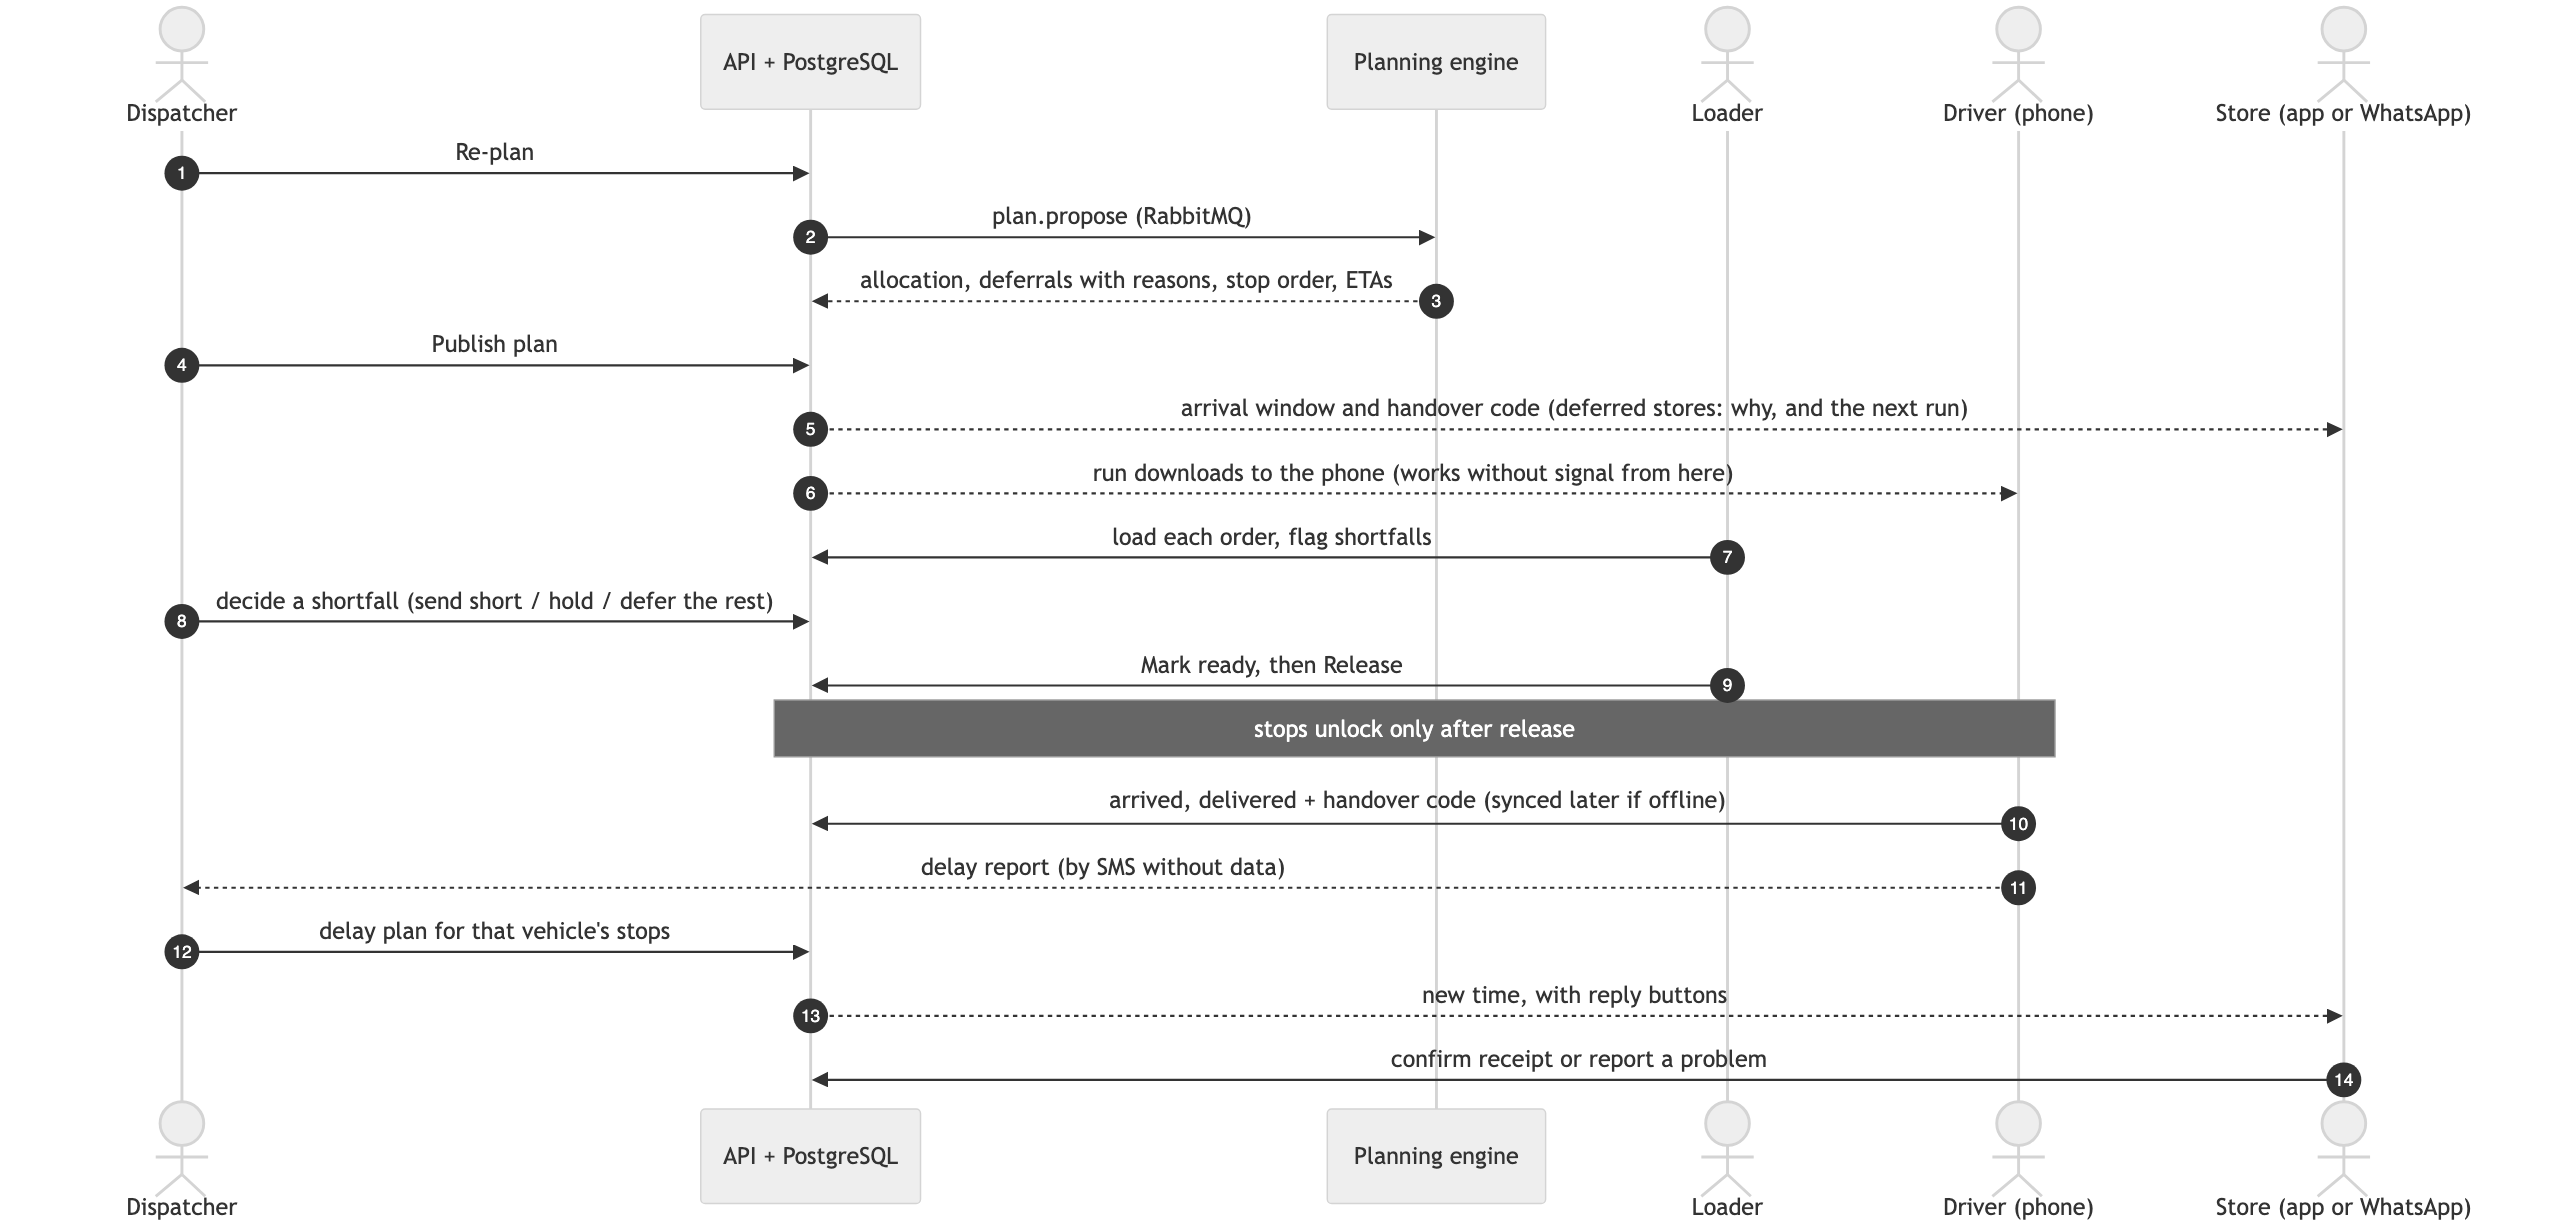
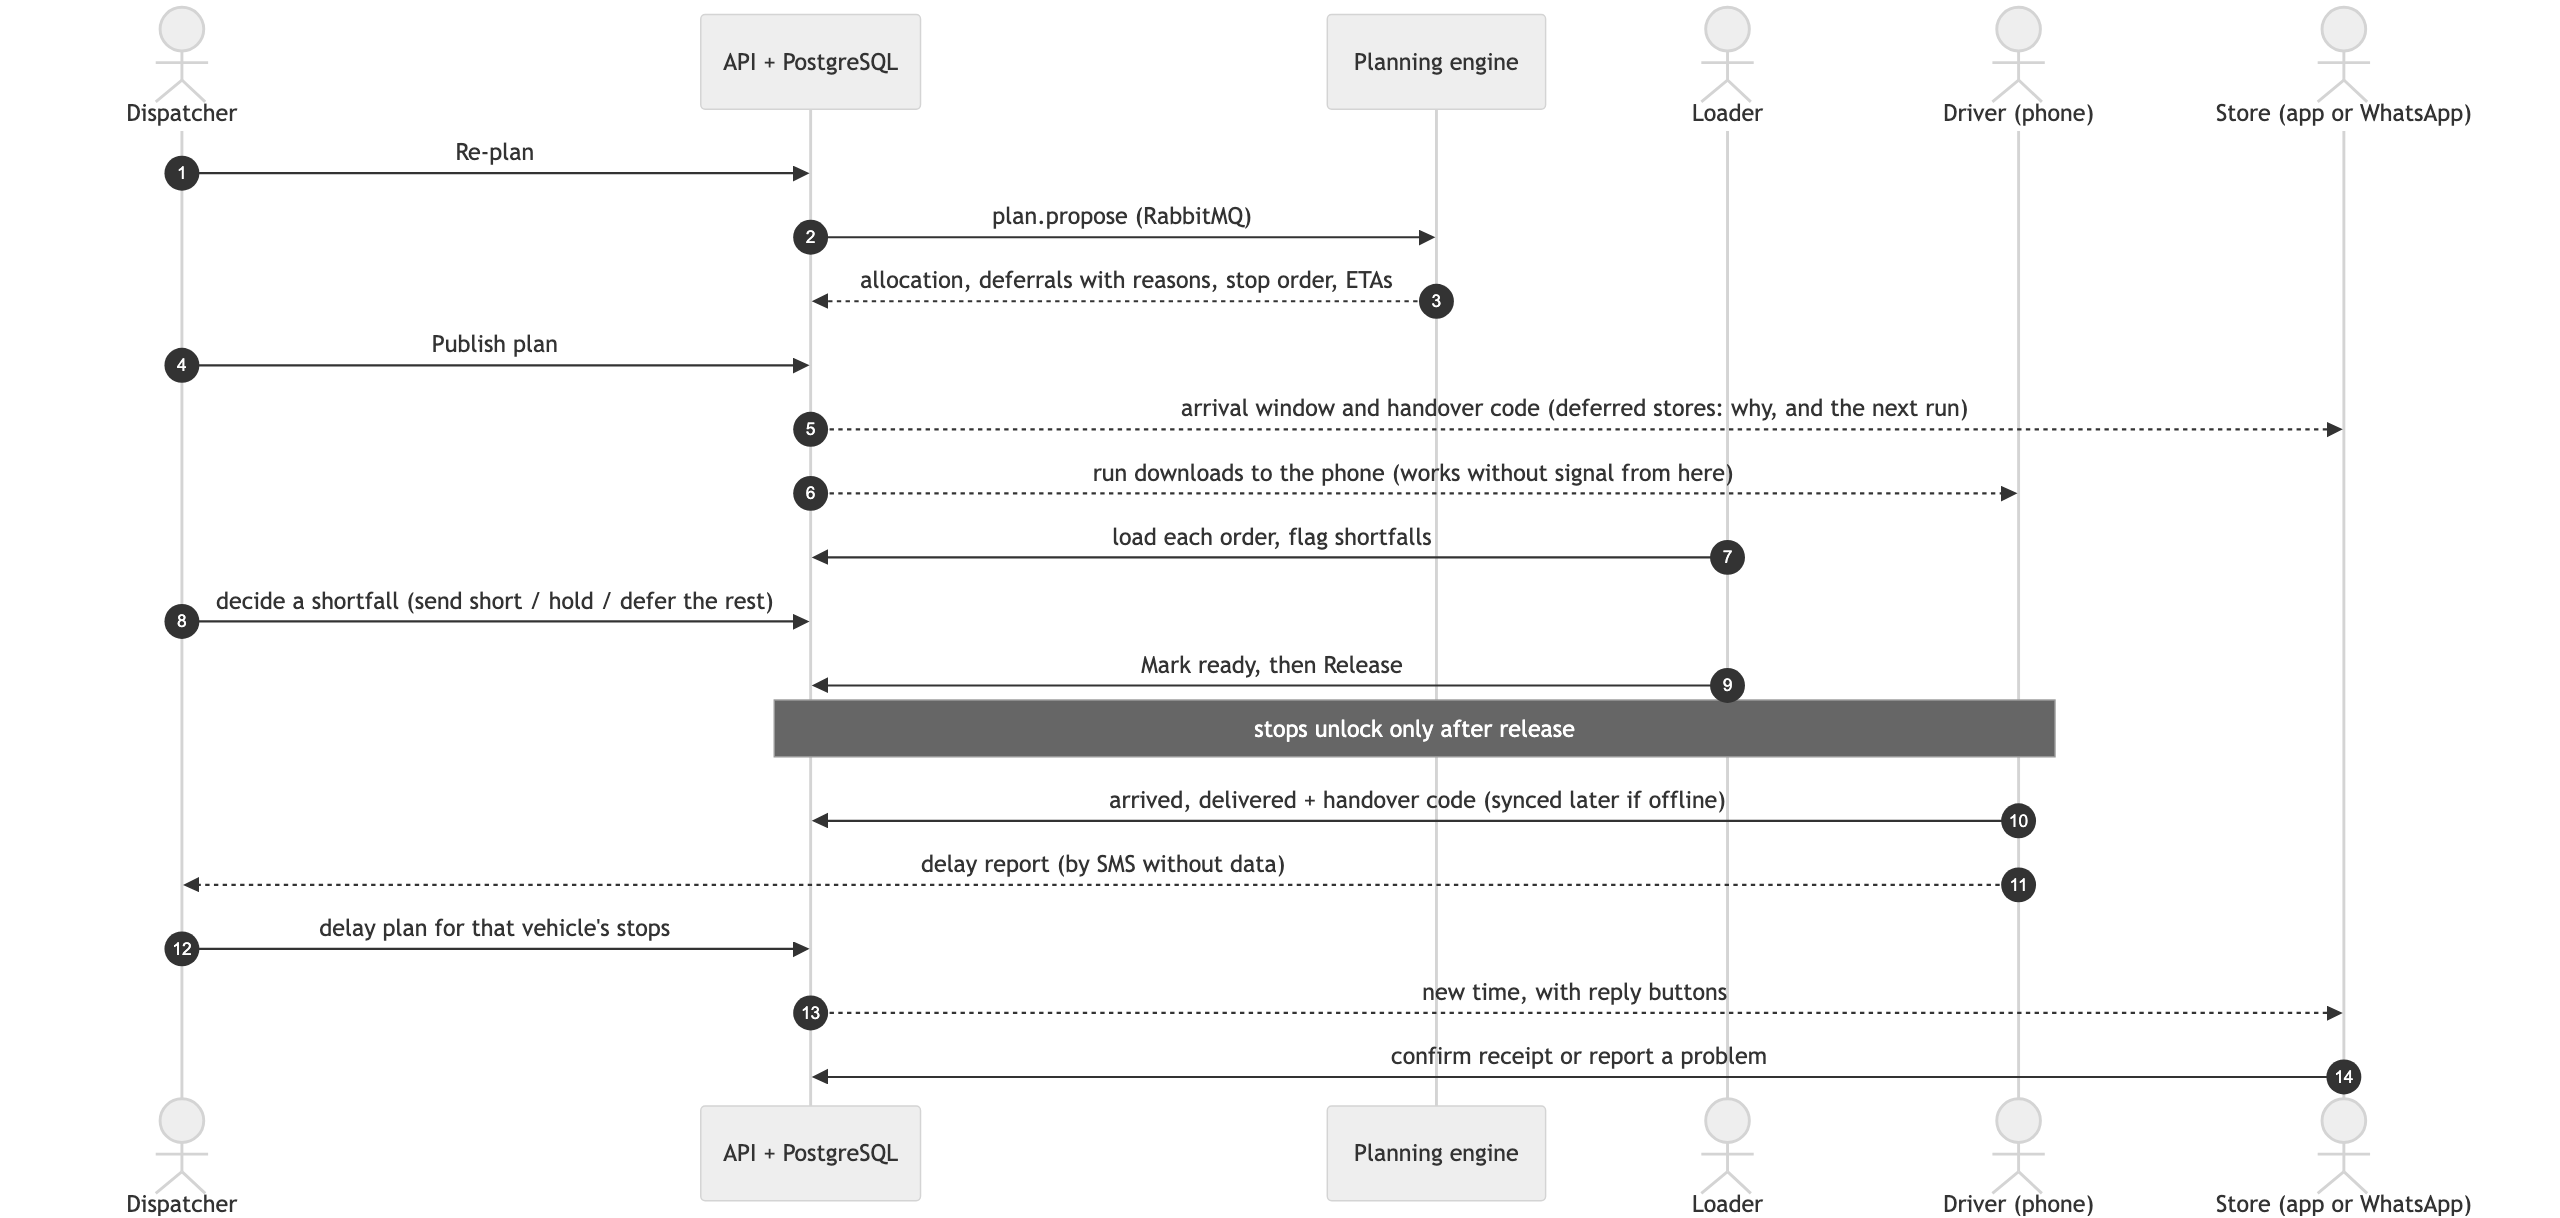
update

diff --git a/docs/architecture.md b/docs/architecture.md
@@ -7,42 +7,28 @@ the "relay" from the Designathon design, implemented as an event-driven service 
 ## Components
 
 ```mermaid
-flowchart LR
-  subgraph Browser["Browsers and phones"]
-    WEB["Web app (Next.js)<br/>dispatcher · loader · driver · store<br/>service worker + IndexedDB outbox"]
-  end
+flowchart TB
+  WEB["<b>Web app</b> (Next.js)<br/>dispatcher · loader · driver · store<br/>service worker + IndexedDB outbox"]
+  API["<b>API service</b> (Fastify, TypeScript)<br/>auth: accounts, JWT cookie, role and scope guard<br/>command handlers (shared operating rules) · queries<br/>realtime (server-sent events) · outbox relay"]
+  WA["<b>WhatsApp Cloud API</b><br/>Meta, or the bundled simulator"]
+  MQ{{"<b>RabbitMQ</b><br/>routelanka.events (topic)<br/>routelanka.commands (direct)<br/>dead-letter exchange"}}
+  DB[("<b>PostgreSQL</b><br/>reference data · orders · plans<br/>progress · events (outbox)")]
+  SEED["<b>Seed job</b> (Python, one-shot)<br/>migrations + datasets"]
+  ENGINE["<b>Planning engine</b> (Python worker)<br/>allocation · stop order · ETAs"]
+  NOTIFY["<b>Notifier</b> (TypeScript worker)<br/>WhatsApp and SMS messages"]
 
-  subgraph Core["API service (Fastify, TypeScript)"]
-    AUTH["Auth: staff accounts,<br/>JWT cookie, role and scope guard"]
-    CMD["Command handlers<br/>(validate with the shared rules)"]
-    QRY["Query / view model"]
-    SSE["Realtime: server-sent events"]
-    RELAY["Outbox relay"]
-  end
-
-  DB[("PostgreSQL<br/>reference data · orders · plans<br/>progress · events (outbox)")]
-  MQ{{"RabbitMQ<br/>routelanka.events (topic)<br/>routelanka.commands (direct)<br/>dead-letter exchange"}}
-
-  ENGINE["Planning engine worker (Python)<br/>allocation · stop sequence · ETAs"]
-  NOTIFY["Notifier worker (TypeScript)<br/>WhatsApp and SMS messages"]
-  SEED["Seed job (Python)<br/>datasets → PostgreSQL"]
-  WA["WhatsApp Cloud API<br/>(Meta, or the bundled simulator)"]
-
-  WEB -- "HTTPS: commands, queries, /sync" --> Core
-  SSE -- "event stream" --> WEB
-  CMD -- "one transaction: state + event" --> DB
-  QRY --> DB
-  RELAY -- "poll unpublished events" --> DB
-  RELAY -- "publish with confirms" --> MQ
+  WEB -- "HTTPS: commands, queries, /sync" --> API
+  API -- "live updates (SSE)" --> WEB
+  WA -- "signed webhooks" --> API
+  API -- "state + event,<br/>one transaction" --> DB
+  SEED --> DB
+  API <-- "publish events /<br/>events for live updates" --> MQ
   MQ -- "plan.propose" --> ENGINE
   ENGINE -- "plan.proposed" --> MQ
-  ENGINE --> DB
   MQ -- "domain events" --> NOTIFY
-  NOTIFY --> DB
-  NOTIFY -- "send (templates, reply buttons)" --> WA
-  WA -- "signed webhooks: statuses, taps" --> Core
-  MQ -- "all events (per API instance)" --> SSE
-  SEED --> DB
+  ENGINE -- "plan" --> DB
+  NOTIFY -- "messages" --> DB
+  NOTIFY -- "send" --> WA
 ```
 
 | Component | Responsibility | Why it is separate |
@@ -51,7 +37,7 @@ flowchart LR
 | **API service** (`apps/api`) | Sign-in, role checks, every command (publish, load, deliver, …) and every query. Writes state and the matching event in one transaction. | The single place that enforces the operating rules and owns the database. |
 | **Planning engine** (`services/engine`) | Proposes the allocation: orders → vehicles and trips, deferrals with reasons, stop order, predicted arrival. | CPU-bound and written in Python (the same engine validated with the organisers' `check_allocation.py`). Runs as a queue worker so a slow plan never blocks the API. |
 | **Notifier** (`services/notifier`) | Turns domain events into store messages (WhatsApp) and driver SMS, in each person's language. | Messaging is a side effect. If it is slow or down, planning and delivery keep working; messages catch up. |
-| **WhatsApp** (`services/notifier/src/whatsapp.ts`, `apps/api/src/whatsapp.ts`, `services/wa-sim`) | Sends store messages through the WhatsApp Business Platform. Signed webhooks bring back delivery ticks and one-tap replies, which run as normal commands. A Cloud API simulator plays Meta for the demo; see [whatsapp.md](whatsapp.md). | The messages table is an outbox, so WhatsApp being slow or down never blocks planning; the webhook is a public endpoint and is guarded by signatures, de-duplication and per-store scope. |
+| **WhatsApp** (`services/notifier/src/whatsapp.ts`, `apps/api/src/whatsapp.ts`, `services/wa-sim`) | Sends store messages through the WhatsApp Business Platform. Signed webhooks bring back delivery ticks and one-tap replies, which run as normal commands. A Cloud API simulator plays Meta for the demo. | The messages table is an outbox, so WhatsApp being slow or down never blocks planning; the webhook is a public endpoint and is guarded by signatures, de-duplication and per-store scope. |
 | **Seed job** (`services/engine`, `seed` command) | Loads the shared datasets and one realistic delivery day on a fresh install. | Runs once at start-up, then exits. |
 | **PostgreSQL** | The shared record. | |
 | **RabbitMQ** | Carries commands to workers and fans events out to every consumer. | Decouples the roles: the loader's flag reaches the dispatcher, the notifier and every open screen without the API calling each of them. |
@@ -110,34 +96,31 @@ the other services wait for it.
 ```mermaid
 flowchart TB
   user(["Browsers and phones"])
+  data[/"./data (datasets, read-only)"/]
   subgraph host["Docker Compose"]
-    web["web · Next.js<br/>:3000"]
-    api["api · Fastify<br/>:4000"]
+    web["web · Next.js :3000"]
+    seed["seed · one-shot<br/>migrations + datasets"]
+    pg[("postgres 16<br/>volume pgdata")]
+    api["api · Fastify :4000"]
+    mq{{"rabbitmq 3.13<br/>:5672, console :15672"}}
     engine["engine · Python worker"]
     notifier["notifier · Node worker"]
-    seed["seed · one-shot<br/>migrations + datasets"]
-    wasim["wa-sim · Cloud API simulator<br/>:3200"]
-    pg[("postgres 16<br/>volume pgdata")]
-    mq{{"rabbitmq 3.13<br/>:5672, console :15672"}}
+    wasim["wa-sim · WhatsApp Cloud API simulator :3200<br/>(Meta's real Cloud API when WHATSAPP_MODE=cloud)"]
   end
-  data[/"./data (datasets, read-only)"/]
-  meta["Meta WhatsApp Cloud API<br/>(when WHATSAPP_MODE=cloud)"]
 
   user --> web
+  data --> seed
+  seed --> pg
   web -- "/api/* proxied" --> api
   web -- "/wa-sim proxied" --> wasim
   api --> pg
   api <--> mq
-  engine <--> mq
+  mq <--> engine
+  mq <--> notifier
   engine --> pg
-  notifier <--> mq
   notifier --> pg
   notifier -- "send" --> wasim
-  notifier -. "send" .-> meta
   wasim -- "signed webhooks" --> api
-  meta -. "signed webhooks" .-> api
-  seed --> pg
-  data --> seed
 ```
 
 ## How a decision travels (example: the loader flags missing crates)

diff --git a/docs/ai-disclosure.md b/docs/ai-disclosure.md
@@ -6,10 +6,14 @@
 
 | Area | How AI was used |
 |---|---|
-| Architecture | We asked for an event-driven design with a message broker (RabbitMQ). The assistant proposed the transactional outbox, the command and event exchanges, idempotent consumers and the dead-letter setup, and we chose that design. |
-| Code | It wrote most of the code in `apps/api`, `services/notifier`, `services/engine` (worker, seed, migrations), `packages/domain`, the database migrations, the Dockerfiles and `docker-compose.yml`, and connected the web app from the Designathon prototype to the API. It ran the builds and tests and fixed what failed. |
-| Tests | It wrote the unit tests (`packages/domain`, `apps/api`, `services/notifier`, `services/engine`), the API smoke test (`tests/smoke`) and the browser walkthrough (`tests/e2e`). |
-| Documentation | It drafted this README, `docs/architecture.md`, `docs/data-model.md` and this file. |
+| Architecture | The team designed and finalised the architecture: the services, the event-driven flow over RabbitMQ, the data model and the roles. The assistant suggested patterns (transactional outbox, idempotent consumers, dead-letter queues) and we decided which to use. |
+| Code | The team wrote part of the code and reviewed the rest. The assistant wrote much of the code in `apps/api`, `services/notifier`, `services/wa-sim`, `services/engine` (worker, seed, migrations), `packages/domain`, the database migrations, the Dockerfiles and `docker-compose.yml`, and connected the web app from the Designathon prototype to the API. It ran the builds and tests and fixed what failed. |
+| Features added later | At our request it built the Team page (adding and deactivating staff, one driver per vehicle, district area managers), the load → release → deliver order, the WhatsApp connect flow (JOIN code, QR, STOP), the route panel on the plan board, the night picker for any night in the order history, and the redesigned Capacity outlook. |
+| Plan checks | It helped script plan runs across many nights; the team checked each plan against that night's fleet with the organisers' `check_allocation.py`. |
+| Deployment | It set up the Railway services (built from our Dockerfiles), the database migrations and seeding on Railway, and the private networking between services. Production secrets are kept in Railway variables only. |
+| Tests | The team did all the testing: every role's flow on the local stack and the live site, the README walkthrough, and plan checks with the organisers' `check_allocation.py`. The assistant helped write the automated tests (unit tests, `tests/smoke`, `tests/e2e`). |
+| Documentation | It drafted the README, `docs/architecture.md`, `docs/data-model.md`, this file, and the diagram images in `docs/diagrams`. |
+
 | Translations | The Sinhala and Tamil interface text is AI-drafted and still needs review by native speakers. |
 
 ## What it was not used for
@@ -19,9 +23,8 @@
 
 ## What the team did
 
-> **Team: fill this in honestly before submitting.** For example: who made the design decisions, which parts you
-> reviewed line by line, what you changed by hand, and how you tested (the walkthrough, the smoke test, the
-> organisers' `check_allocation.py`).
+* **Architecture:** we designed and finalised the architecture: the services, the RabbitMQ events, the database model and the four roles.
+* **Coding:** we wrote part of the code ourselves and reviewed and changed the code the assistant wrote.
+* **Testing:** we did all the testing: each role's flow end to end (dispatcher, loader, driver, store) on Docker and on the live site, the numbered README walkthrough, and plan checks across many nights with `check_allocation.py`.
 
-The rules ask us to understand, explain and own every line we submit. Every part of the system is covered by a test or by
-the numbered walkthrough in the README, and we can walk a judge through any file.
+The rules ask us to understand, explain and own every line we submit. We can walk a judge through any file.

diff --git a/README.md b/README.md
@@ -170,8 +170,11 @@ Event-driven services around one shared PostgreSQL record, connected through Rab
 | `db/migrations` | Database schema |
 | `tests` | End-to-end and smoke tests |
 
-More detail: [architecture](docs/architecture.md) · [data model](docs/data-model.md) · [WhatsApp](docs/whatsapp.md) ·
+More detail: [architecture](docs/architecture.md) · [data model](docs/data-model.md) ·
 [AI disclosure](docs/ai-disclosure.md)
+
+**AI use:** we used Claude Code as a coding assistant. The team designed the architecture, wrote part of the code,
+reviewed all of it and did all the testing. See the [AI disclosure](docs/ai-disclosure.md) for the details.
 
 ## Configuration
 
